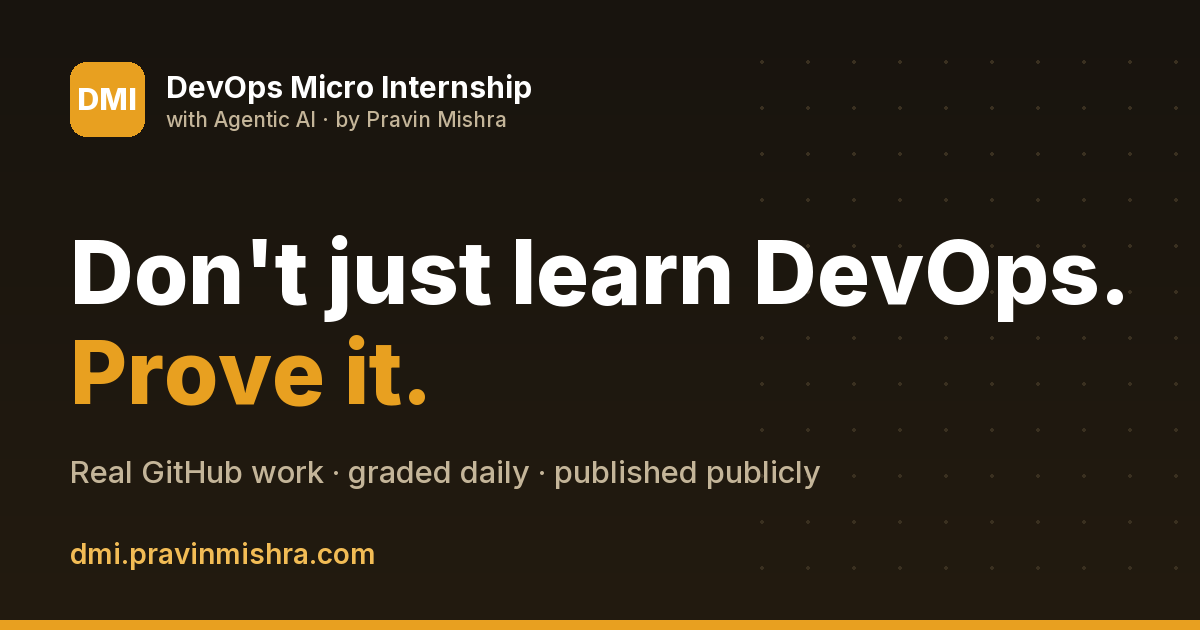
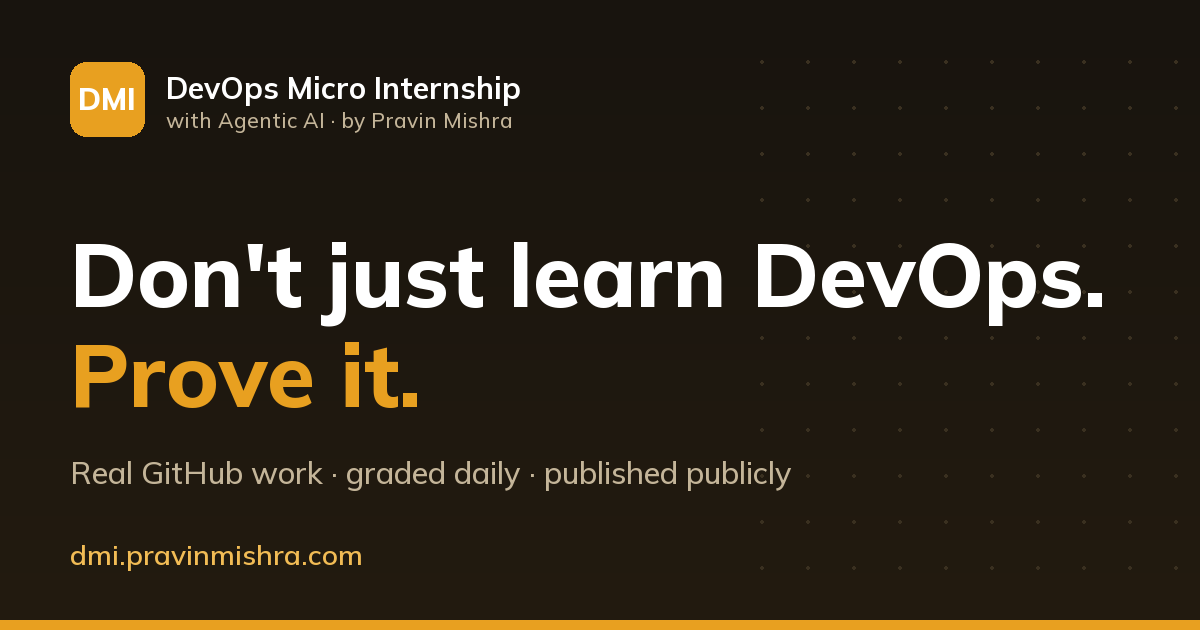
Switch site font Inter -> Mulish (ecosystem font alignment)
Mulish is the closest free (OFL) match to the University storefront's
Proxima Nova (a commercial font we can't self-host). Swaps the Google
Fonts link on all 7 pages, the --font custom property in styles.css,
regenerates the og:image banner in Mulish, and updates CLAUDE.md.
Badge pages under s/ pick up the font from the review-agent template
(changed separately).

diff --git a/leaderboard.html b/leaderboard.html
@@ -18,7 +18,7 @@
   <link rel="icon" type="image/svg+xml" href="favicon.svg" />
   <link rel="stylesheet" href="styles.css" />
   <link rel="preconnect" href="https://fonts.googleapis.com" />
-  <link href="https://fonts.googleapis.com/css2?family=Inter:wght@400;500;600;700;800&display=swap" rel="stylesheet" />
+  <link href="https://fonts.googleapis.com/css2?family=Mulish:wght@400;500;600;700;800&display=swap" rel="stylesheet" />
   <style>
     .share-mini-row { display: flex; gap: 6px; flex-wrap: wrap; margin-top: 4px; }
     .share-mini-btn {

diff --git a/alumni.html b/alumni.html
@@ -18,7 +18,7 @@
   <link rel="icon" type="image/svg+xml" href="favicon.svg" />
   <link rel="stylesheet" href="styles.css" />
   <link rel="preconnect" href="https://fonts.googleapis.com" />
-  <link href="https://fonts.googleapis.com/css2?family=Inter:wght@400;500;600;700;800&display=swap" rel="stylesheet" />
+  <link href="https://fonts.googleapis.com/css2?family=Mulish:wght@400;500;600;700;800&display=swap" rel="stylesheet" />
   <style>
     .alum-card {
       background: var(--bg-card2);

diff --git a/graduates.html b/graduates.html
@@ -18,7 +18,7 @@
   <link rel="icon" type="image/svg+xml" href="favicon.svg" />
   <link rel="stylesheet" href="styles.css" />
   <link rel="preconnect" href="https://fonts.googleapis.com" />
-  <link href="https://fonts.googleapis.com/css2?family=Inter:wght@400;500;600;700;800&display=swap" rel="stylesheet" />
+  <link href="https://fonts.googleapis.com/css2?family=Mulish:wght@400;500;600;700;800&display=swap" rel="stylesheet" />
   <style>
     .grad-card {
       background: var(--bg-card2);

diff --git a/index.html b/index.html
@@ -18,7 +18,7 @@
   <link rel="icon" type="image/svg+xml" href="favicon.svg" />
   <link rel="stylesheet" href="styles.css" />
   <link rel="preconnect" href="https://fonts.googleapis.com" />
-  <link href="https://fonts.googleapis.com/css2?family=Inter:wght@400;500;600;700;800&display=swap" rel="stylesheet" />
+  <link href="https://fonts.googleapis.com/css2?family=Mulish:wght@400;500;600;700;800&display=swap" rel="stylesheet" />
   <style>
     .btn-primary {
       display: inline-block;

diff --git a/self-paced-leaderboard.html b/self-paced-leaderboard.html
@@ -18,7 +18,7 @@
   <link rel="icon" type="image/svg+xml" href="favicon.svg" />
   <link rel="stylesheet" href="styles.css" />
   <link rel="preconnect" href="https://fonts.googleapis.com" />
-  <link href="https://fonts.googleapis.com/css2?family=Inter:wght@400;500;600;700;800&display=swap" rel="stylesheet" />
+  <link href="https://fonts.googleapis.com/css2?family=Mulish:wght@400;500;600;700;800&display=swap" rel="stylesheet" />
   <style>
     .weeks-pill {
       display: inline-flex;

diff --git a/how-it-works.html b/how-it-works.html
@@ -18,7 +18,7 @@
   <link rel="icon" type="image/svg+xml" href="favicon.svg" />
   <link rel="stylesheet" href="styles.css" />
   <link rel="preconnect" href="https://fonts.googleapis.com" />
-  <link href="https://fonts.googleapis.com/css2?family=Inter:wght@400;500;600;700;800&display=swap" rel="stylesheet" />
+  <link href="https://fonts.googleapis.com/css2?family=Mulish:wght@400;500;600;700;800&display=swap" rel="stylesheet" />
   <style>
     .timeline {
       position: relative;

diff --git a/champion.html b/champion.html
@@ -18,7 +18,7 @@
   <link rel="icon" type="image/svg+xml" href="favicon.svg" />
   <link rel="stylesheet" href="styles.css" />
   <link rel="preconnect" href="https://fonts.googleapis.com" />
-  <link href="https://fonts.googleapis.com/css2?family=Inter:wght@400;500;600;700;800&display=swap" rel="stylesheet" />
+  <link href="https://fonts.googleapis.com/css2?family=Mulish:wght@400;500;600;700;800&display=swap" rel="stylesheet" />
   <style>
     .week-tabs {
       display: flex;

diff --git a/styles.css b/styles.css
@@ -15,7 +15,7 @@
   --shadow: 0 2px 12px rgba(0,0,0,0.07);
   --shadow-hover: 0 6px 24px rgba(0,0,0,0.12);
   --radius: 12px;
-  --font: 'Inter', -apple-system, BlinkMacSystemFont, 'Segoe UI', sans-serif;
+  --font: 'Mulish', -apple-system, BlinkMacSystemFont, 'Segoe UI', sans-serif;
 }
 
 * { margin: 0; padding: 0; box-sizing: border-box; }

diff --git a/CLAUDE.md b/CLAUDE.md
@@ -11,7 +11,7 @@ This repo is one of six in a wider workspace that all funnel to a single LMS. If
 ## Ecosystem rules — read before editing prices, dates, or CTAs
 
 - **Never state prices, cohort dates, or waitlist status on this site.** The LMS at `https://university.pravinmishra.com` (Payhip) is the single point of sale for all three DMI tracks (Foundation, Self-Paced Engineer, Live Internship) — those facts live only there and have gone stale here before (e.g. hardcoded cohort start dates in the hero/CTA). Link to University, don't restate it.
-- **Brand accent is gold `#E8A020`** (ramp: `#f2bc55` / `#d4911a` / `#b87d16`) + **Inter** font — already reflected in `styles.css`'s custom properties (`--accent` etc.); keep new UI additions on that palette rather than introducing new colors.
+- **Brand accent is gold `#E8A020`** (ramp: `#f2bc55` / `#d4911a` / `#b87d16`) + **Mulish** font (ecosystem-wide since July 2026 — closest free match to the University storefront's Proxima Nova) — already reflected in `styles.css`'s custom properties (`--accent`, `--font`); keep new UI additions on that palette rather than introducing new colors.
 - **Cross-site links need UTM params**: `utm_source=dmi&utm_medium=nav|footer|hero|cta-...`
 - **Shared footer block** (same on all three static sites): University · DMI Student Hub · Pravin Mishra / The CloudAdvisory · Discord.
 
